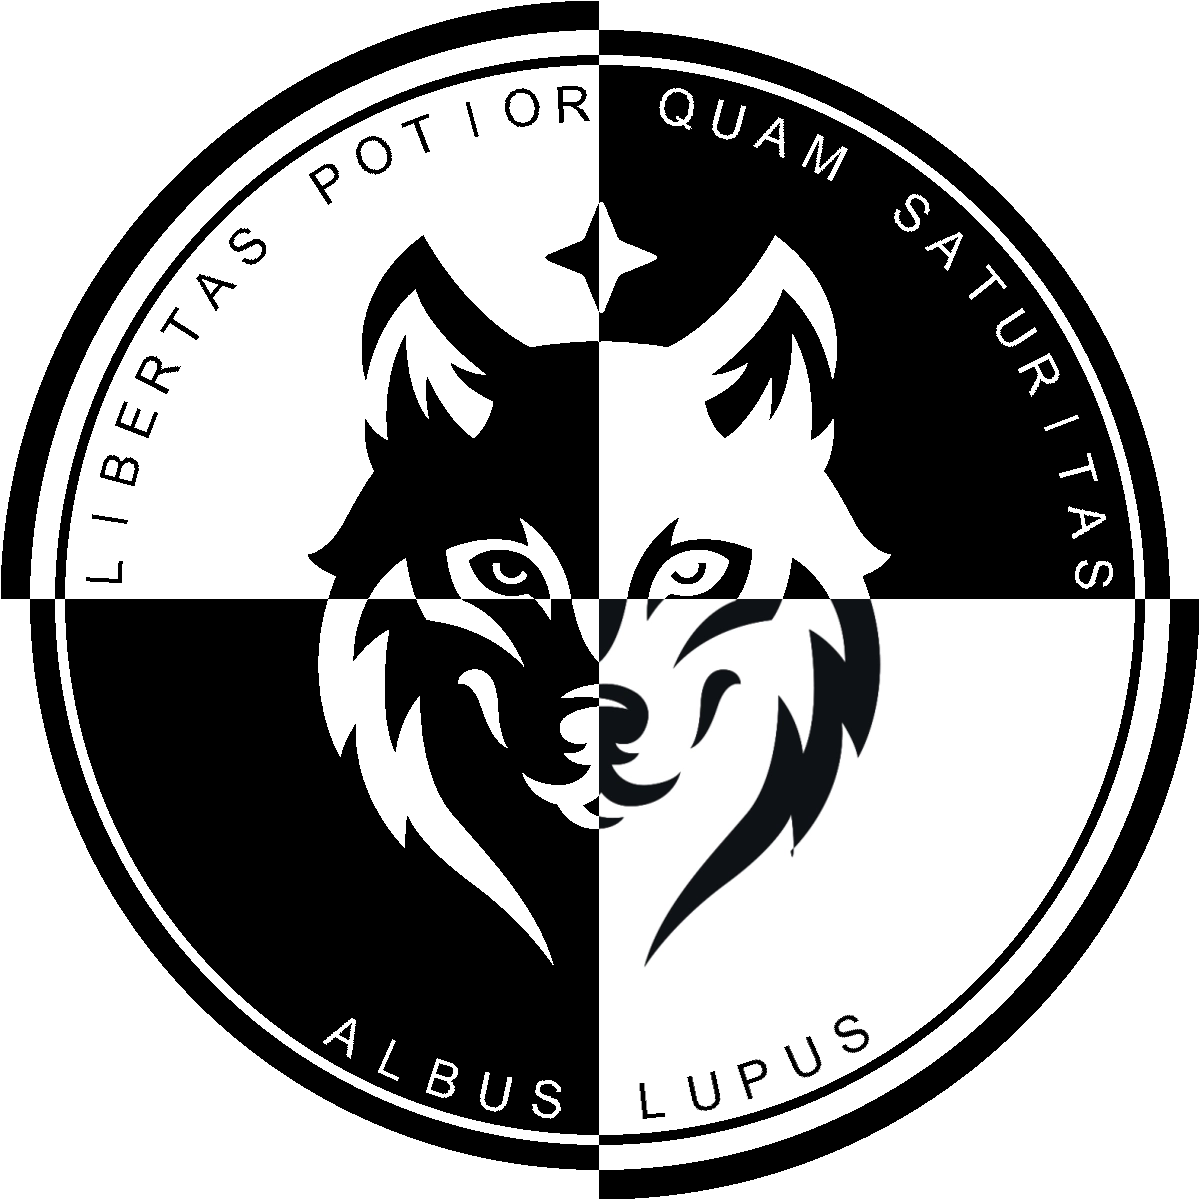
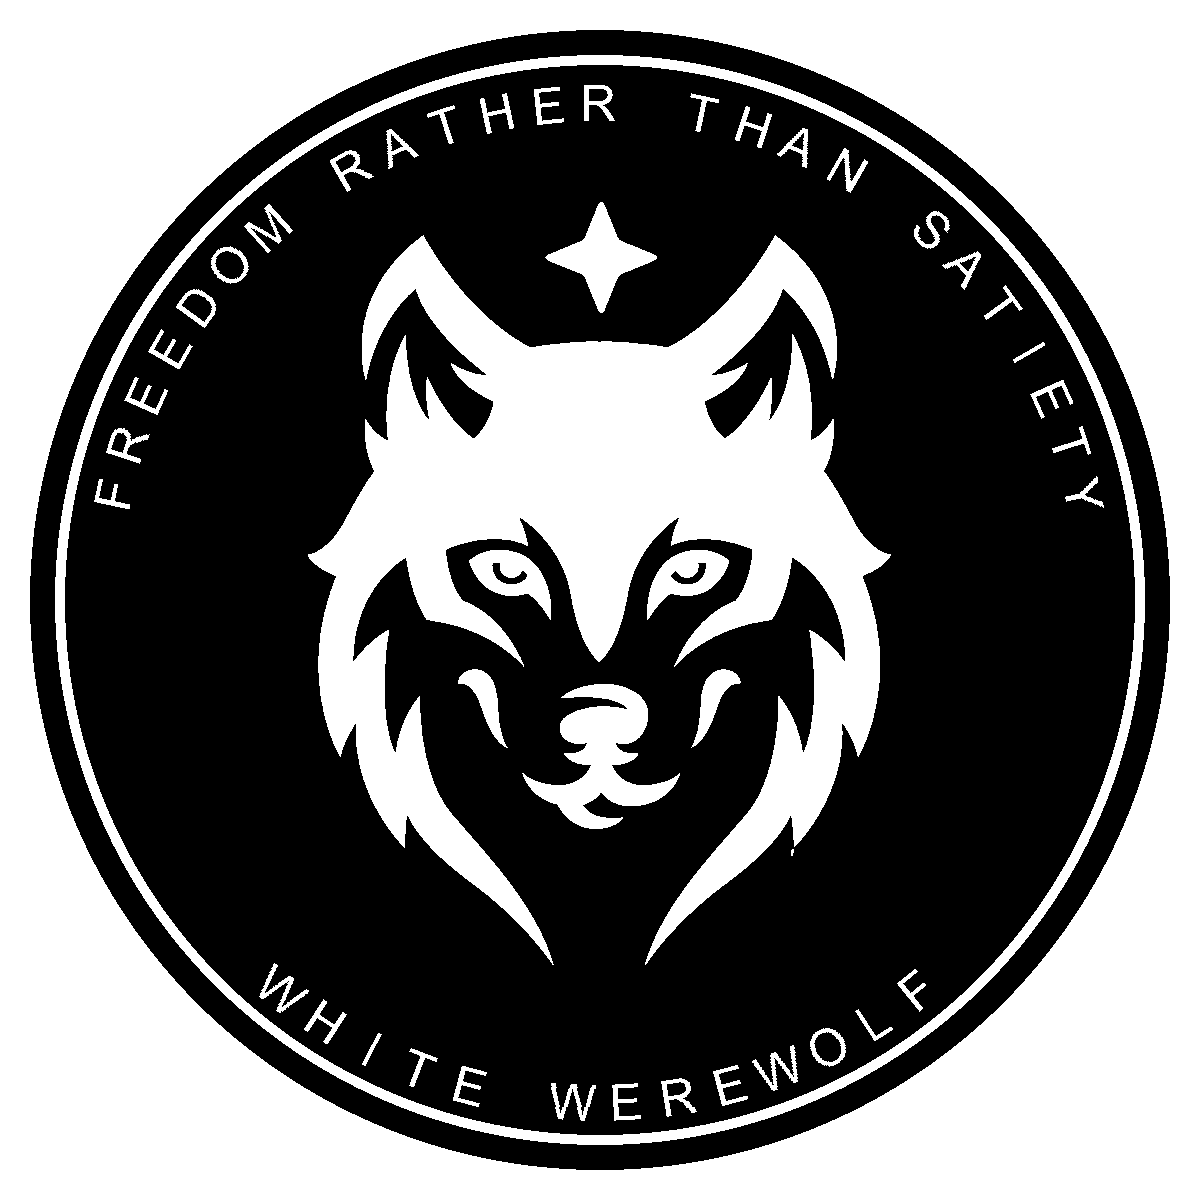
wip

diff --git a/keep_design_borders.py b/keep_design_borders.py
@@ -3,63 +3,64 @@ import sys
 from PIL import Image, ImageDraw
 from vector2D import Vector2D
 
+if __name__ == "--main__":
 
-im = Image.open(sys.argv[1])
-pix = im.load()
+    im = Image.open(sys.argv[1])
+    pix = im.load()
 
-def build_possibilities(x, y, size):
-    input = [(-1, -1), (-1,0),(-1,1), (1,1), (1, 0), (1, -1) ,(0,1), (0, -1)]
-    #input = [(-1,0), (1, 0), (0,1), (0, -1)]
-    output = []
-    for i in range(len(input)):
-        input[i] = (input[i][0] + x, input[i][1] + y)
-    for  i in input:
-        if i[0]>= 0 and i[1] >= 0 and i[0] < size[0] and i[1] < size[1]:
-            output.append(i)
-    return output
+    def build_possibilities(x, y, size):
+        input = [(-1, -1), (-1,0),(-1,1), (1,1), (1, 0), (1, -1) ,(0,1), (0, -1)]
+        #input = [(-1,0), (1, 0), (0,1), (0, -1)]
+        output = []
+        for i in range(len(input)):
+            input[i] = (input[i][0] + x, input[i][1] + y)
+        for  i in input:
+            if i[0]>= 0 and i[1] >= 0 and i[0] < size[0] and i[1] < size[1]:
+                output.append(i)
+        return output
 
-def copy(array):
-    output = []
-    for x in range (im.size[0]):
-        output.append([])
-        for y in range(im.size[1]):
-            output[x].append(array[x,y])
-    return output
-    
-basepix = copy(pix)
-points = list()
-i = 0
-for x in range(0,im.size[0]):
-    for y in range(0,im.size[1]):
-        col = basepix[x][y]
-        if col[0] < 128:
-            poss = build_possibilities(x,y,im.size)
-            blank = 0
-            for p in poss:
-                if basepix[p[0]][ p[1]][0] > 128:
-                    blank = blank + 1
-            if blank:
-                pix[x, y]= (0,0,0,255)
-            else:
-                i += 1
-                if i == 50:
-                    i = 0
-                    points.append([Vector2D(x,y), 0])
-                pix[x, y]= (255,255,255,255)
-draw = ImageDraw.Draw(im)
+    def copy(array):
+        output = []
+        for x in range (im.size[0]):
+            output.append([])
+            for y in range(im.size[1]):
+                output[x].append(array[x,y])
+        return output
+        
+    basepix = copy(pix)
+    points = list()
+    i = 0
+    for x in range(0,im.size[0]):
+        for y in range(0,im.size[1]):
+            col = basepix[x][y]
+            if col[0] < 128:
+                poss = build_possibilities(x,y,im.size)
+                blank = 0
+                for p in poss:
+                    if basepix[p[0]][ p[1]][0] > 128:
+                        blank = blank + 1
+                if blank:
+                    pix[x, y]= (0,0,0,255)
+                else:
+                    i += 1
+                    if i == 50:
+                        i = 0
+                        points.append([Vector2D(x,y), 0])
+                    pix[x, y]= (255,255,255,255)
+    draw = ImageDraw.Draw(im)
 
-i = 10
-for n in range(len(points)):
-    i -= 1
-    if points[n][1] == 0 and i == 0:
-        points[n][1] = 1
-        i = n + 10
-        for m in range(len(points)):
-            dist = (points[m][0] - points[n][0]).getModule()
-            if dist > 50 and points[m][1] == 0:
-                
-                points[m][1] = 1
-                draw.line((points[m][0].x, points[m][0].y,points[n][0].x,points[n][0].y), 255)
-                break
+    i = 10
+    for n in range(len(points)):
+        i -= 1
+        if points[n][1] == 0 and i == 0:
+            points[n][1] = 1
+            i = n + 10
+            for m in range(len(points)):
+                dist = (points[m][0] - points[n][0]).getModule()
+                if dist > 50 and points[m][1] == 0:
+                    
+                    points[m][1] = 1
+                    draw.line((points[m][0].x, points[m][0].y,points[n][0].x,points[n][0].y), 255)
+                    break
 
-im.save(sys.argv[1])
+    im.save(sys.argv[1])

diff --git a/draw_centered_disc.py b/draw_centered_disc.py
@@ -1,0 +1,47 @@
+#!/usr/bin/env python3
+import sys
+import argparse
+from PIL import Image, ImageDraw
+
+def draw_centered_circle(image_path, inner_radius=None, outer_radius=None):
+    im = Image.open(image_path)
+    width, height = im.size
+    draw = ImageDraw.Draw(im)
+
+    if outer_radius is None:
+        outer_radius = min(width, height) / 2
+
+    if inner_radius is None:
+        # Draw a full black circle
+        center = (width / 2, height / 2)
+        draw.ellipse(
+            (
+                (center[0] - outer_radius, center[1] - outer_radius),
+                (center[0] + outer_radius, center[1] + outer_radius)
+            ),
+            fill=(0, 0, 0),
+            outline=(0, 0, 0)
+        )
+    else:
+        center = (width / 2, height / 2)
+        draw.ellipse(
+            (
+                (center[0] - outer_radius, center[1] - outer_radius),
+                (center[0] + outer_radius, center[1] + outer_radius)
+            ),
+            fill=None,
+            outline=(0, 0, 0),
+            width=int(outer_radius - inner_radius)
+        )
+
+    im.save(image_path)
+
+if __name__ == "__main__":
+    parser = argparse.ArgumentParser(description="Draw a centered circle on an image.")
+    parser.add_argument("image_path", type=str, help="Path to the image file.")
+    parser.add_argument("--inner-radius", type=int, default=None, help="Inner radius of the circle. If not specified, the circle will be filled.")
+    parser.add_argument("--outer-radius", type=int, default=None, help="Outer radius of the circle. If not specified, the circle will fill the smallest dimension of the image.")
+
+    args = parser.parse_args()
+
+    draw_centered_circle(args.image_path, args.inner_radius, args.outer_radius)

diff --git a/draw_text_on_circle_up.py b/draw_text_on_circle_up.py
@@ -11,6 +11,10 @@ pix = im.load()
 for x in range(0, im.size[0]):
     for y in range(0, im.size[1]):
         pass
+font = sys.argv[4]
+font_size = sys.argv[5]
+radius = int(sys.argv[3])
+
 f =  ImageFont.truetype(sys.argv[4], int(sys.argv[5]))
 
 def get_text_dimensions(text_string, font):
